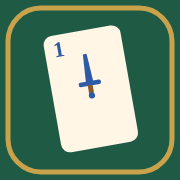
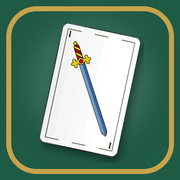
Ícono con el ancho de espada de la baraja real
Claude-Session: https://claude.ai/code/session_01PQ2nU917rhHVUGYtPE7cQH

Changed region(s): [[0.2222, 0.1111, 0.8056, 0.8889], [0.0278, 0.0278, 0.9722, 0.9722], [0.9167, 0.2222, 0.9722, 0.7778]]

diff --git a/vite.config.js b/vite.config.js
@@ -11,7 +11,7 @@ export default defineConfig(({ mode }) => ({
     VitePWA({
       registerType: 'autoUpdate',
       injectRegister: false, // se registra en main.jsx para buscar actualizaciones al volver a la app
-      includeAssets: ['icon.svg', 'apple-touch-icon.png', 'naipes/*.webp'],
+      includeAssets: ['favicon.png', 'apple-touch-icon.png', 'naipes/*.webp'],
       manifest: {
         name: 'Truco',
         short_name: 'Truco',
@@ -23,8 +23,9 @@ export default defineConfig(({ mode }) => ({
         background_color: '#2A1B14',
         theme_color: '#2A1B14',
         icons: [
+          { src: 'icon-192.png', sizes: '192x192', type: 'image/png' },
+          { src: 'icon-512.png', sizes: '512x512', type: 'image/png' },
           { src: 'apple-touch-icon.png', sizes: '180x180', type: 'image/png' },
-          { src: 'icon.svg', sizes: 'any', type: 'image/svg+xml' },
         ],
       },
       workbox: {

diff --git a/index.html b/index.html
@@ -9,7 +9,7 @@
     <meta name="apple-mobile-web-app-status-bar-style" content="black-translucent" />
     <meta name="apple-mobile-web-app-title" content="Truco" />
     <link rel="apple-touch-icon" href="./apple-touch-icon.png" />
-    <link rel="icon" href="./icon.svg" type="image/svg+xml" />
+    <link rel="icon" href="./favicon.png" type="image/png" />
     <link rel="preconnect" href="https://fonts.googleapis.com" />
     <link rel="preconnect" href="https://fonts.gstatic.com" crossorigin />
     <link
